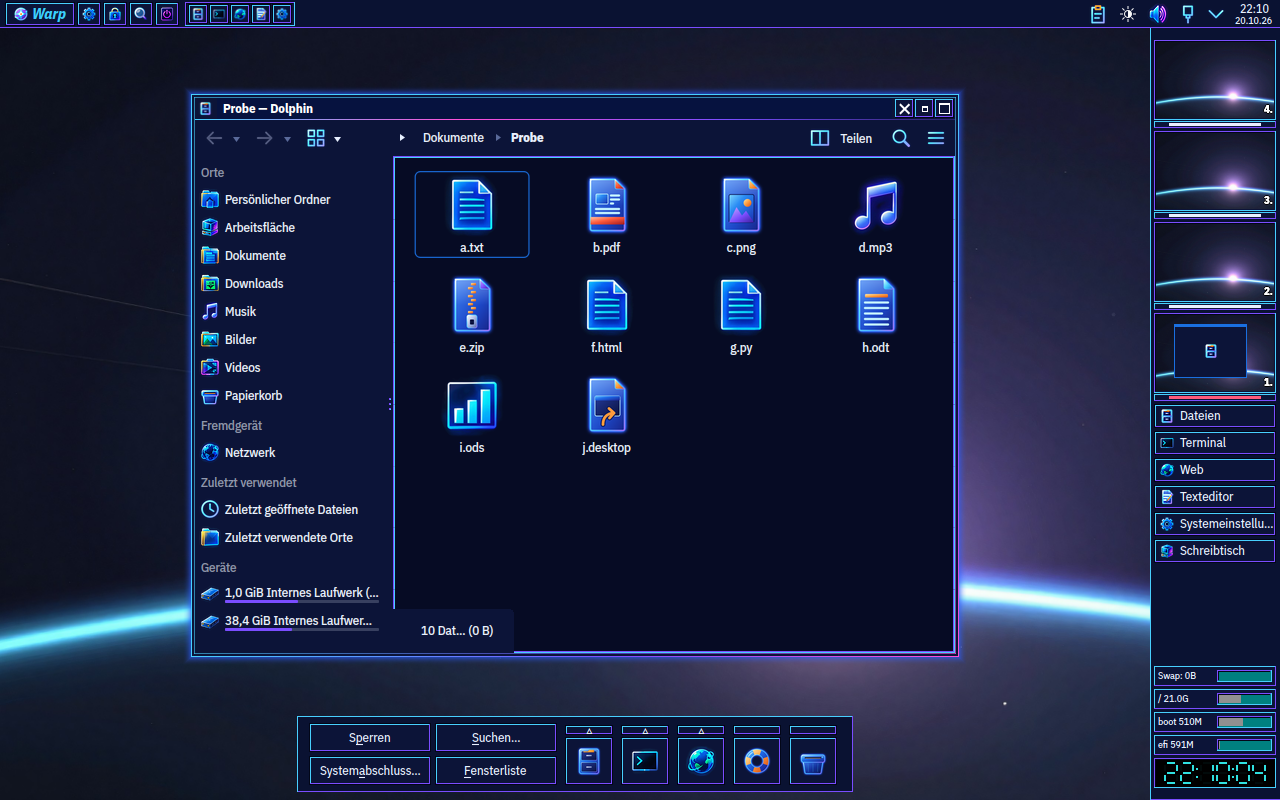
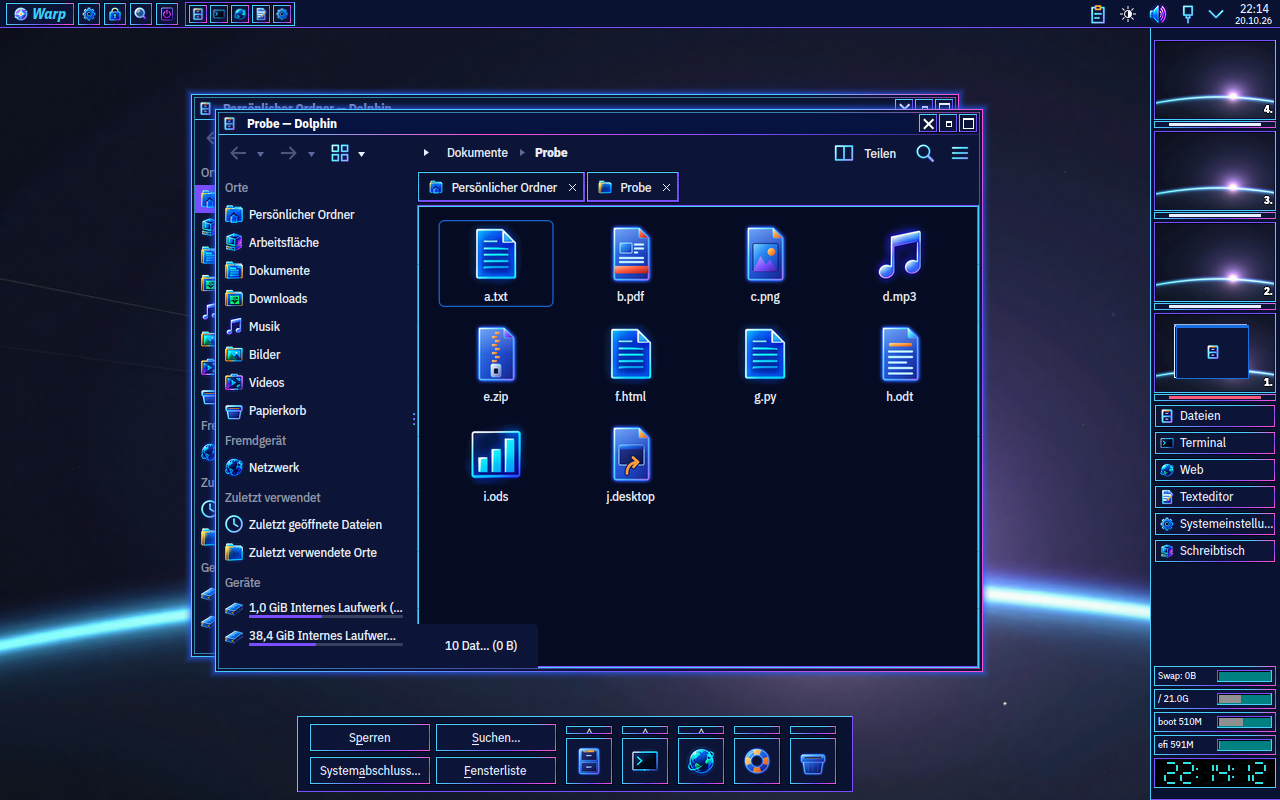
Warp Legacy Neon: pink auch oben rechts, Leisten mit Neon-Kante
Im Konzept wechselt die Oberkante im letzten Fünftel von etwa 200° auf
290° Farbton (gemessen): beide rechten Ecken leuchten pink. NeonFrame.qml
liegt jetzt in common/ und dient der Fensterdekoration und den Plasmoiden;
Bevel zeichnet bei Neon den äußeren Ring damit.

Changed region(s): [[0.1562, 0.125, 0.7812, 0.8438], [0.5625, 0.2188, 0.625, 0.5], [0.9375, 0.4062, 0.9688, 0.4688]]

diff --git a/common/NeonFrame.qml b/common/NeonFrame.qml
@@ -1,0 +1,40 @@
+import QtQuick
+
+// Neon's frame line (DESIGN.md §9a, measured on reference/neon-2026.png):
+// cyan along the left and most of the top, as OS/2's white; both right
+// corners glow pink (the top edge turns from about 200° to 290° hue over
+// its last fifth); the bottom runs from cyan through violet into pink, the
+// right edge from pink through violet back to pink.
+Item {
+    id: frame
+    property color light
+    property color dark
+    property color accent
+    Rectangle {
+        width: parent.width; height: 1
+        gradient: Gradient {
+            orientation: Gradient.Horizontal
+            GradientStop { position: 0.0; color: frame.light }
+            GradientStop { position: 0.78; color: frame.light }
+            GradientStop { position: 1.0; color: frame.accent }
+        }
+    }
+    Rectangle { width: 1; height: parent.height; color: frame.light }
+    Rectangle {
+        y: parent.height - 1; width: parent.width; height: 1
+        gradient: Gradient {
+            orientation: Gradient.Horizontal
+            GradientStop { position: 0.0; color: frame.light }
+            GradientStop { position: 0.55; color: frame.dark }
+            GradientStop { position: 1.0; color: frame.accent }
+        }
+    }
+    Rectangle {
+        x: parent.width - 1; width: 1; height: parent.height
+        gradient: Gradient {
+            GradientStop { position: 0.0; color: frame.accent }
+            GradientStop { position: 0.4; color: frame.dark }
+            GradientStop { position: 1.0; color: frame.accent }
+        }
+    }
+}

diff --git a/common/Bevel.qml b/common/Bevel.qml
@@ -27,11 +27,23 @@ Rectangle {
         return sunken ? [[ink, ink], [dark, light]] : [[ink, ink], [light, dark]];
     }
 
+    // Neon draws the outer line of a raised frame or button as the window
+    // frame does (NeonFrame.qml): cyan, pink in the right corners.
+    readonly property bool glowEdge: neon && !sunken && kind !== "field"
+    NeonFrame {
+        visible: root.glowEdge
+        anchors.fill: parent
+        anchors.margins: root.kind === "frame" ? 0 : 1
+        light: root.light; dark: root.dark; accent: "#ff4fd8"
+        z: 1
+    }
     Repeater {
         model: root.lines
         Item {
             required property var modelData
             required property int index
+            // The ring NeonFrame replaces stays out.
+            visible: !(root.glowEdge && index === (root.kind === "frame" ? 0 : 1))
             anchors.fill: parent
             anchors.margins: index
             Rectangle { width: parent.width - 1; height: 1; color: modelData[0] }

diff --git a/build.py b/build.py
@@ -173,6 +173,8 @@ def decoration(v):
     name = ids(v)["decoration"]
     base = f"kwin/decorations/{name}/"
     shutil.copytree(ROOT / "decoration/contents", OUT / base / "contents", dirs_exist_ok=True)
+    # The Neon frame line is shared with the plasmoids (common/).
+    shutil.copy2(ROOT / "common/NeonFrame.qml", OUT / base / "contents/ui/NeonFrame.qml")
     s = v["style"]
     props = "\n".join(f'    readonly property color {k}: "{s[k]}"' for k in ("light", "dark", "ink", "glyph", "glow", "accent"))
     write(base + "contents/ui/Style.qml",
